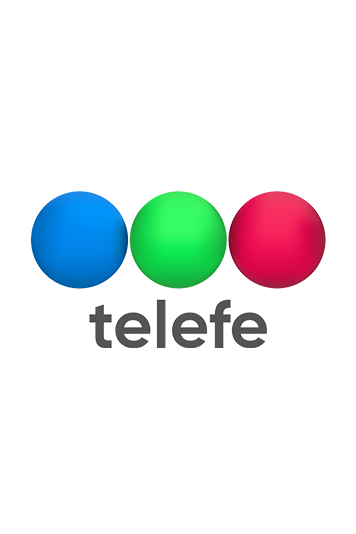
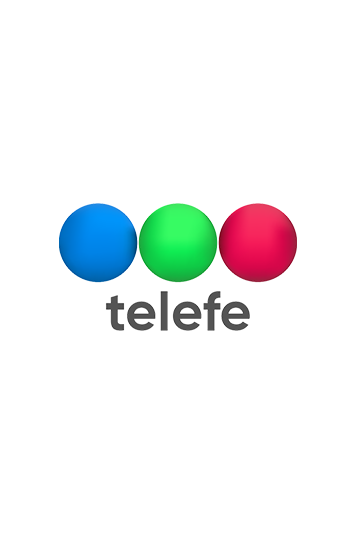
mejorando img

Changed region(s): [[0.0618, 0.3596, 0.927, 0.6592]]

diff --git a/television.html b/television.html
@@ -182,7 +182,7 @@
                                 <div class="div-block-2"><img
                                         src="https://uploads-ssl.webflow.com/64a5fa02f0bb2c4bf6dbdf77/64a5fa02f0bb2c4bf6dbdfb4_botonplay.png"
                                         loading="lazy" alt="bodon de play" class="iconoplay" /></div><img
-                                    src="https://uploads-ssl.webflow.com/64a5fa02f0bb2c4bf6dbdf77/64a5fa02f0bb2c4bf6dbe007_Component%2053.png"
+                                    src="img/canales/Component 53.png"
                                     loading="lazy" id="w-node-_8f9790cc-49f5-c97d-dfde-0fdf7447c25f-f6dbdf76" alt=""
                                     class="image-2" />
                                 <h3 id="w-node-_8f9790cc-49f5-c97d-dfde-0fdf7447c260-f6dbdf76" class="heading-3">Televisión
